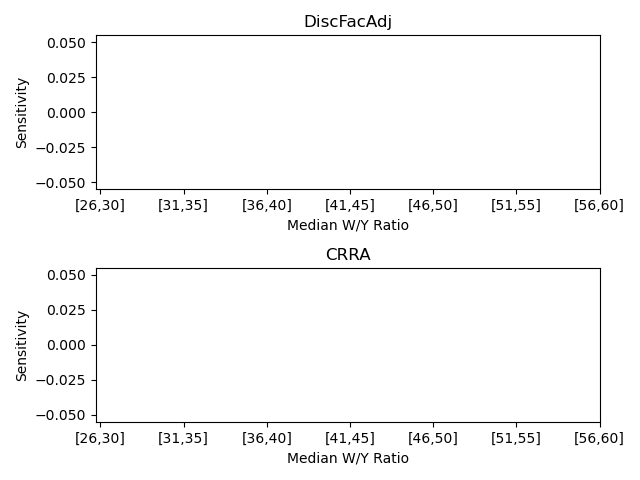
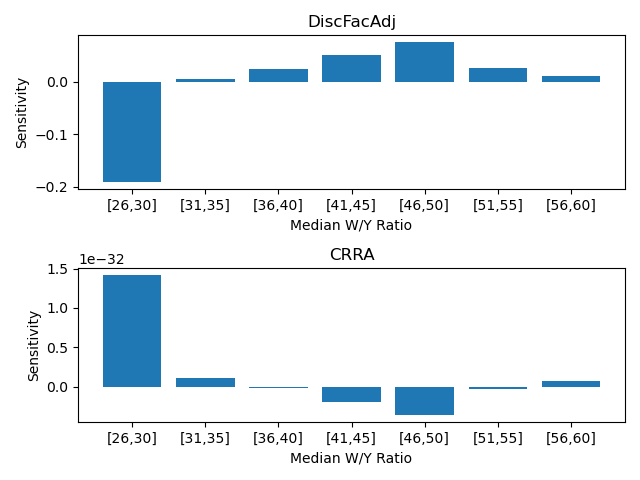
change grid params

diff --git a/Calibration/EstimationParameters.py b/Calibration/EstimationParameters.py
@@ -26,9 +26,9 @@ show_PermGroFacAgg_error = False
 # - Define all of the model parameters for SolvingMicroDSOPs and ConsumerExamples -
 # ---------------------------------------------------------------------------------
 
-exp_nest = 2  # Number of times to "exponentially nest" when constructing a_grid
+exp_nest = 3  # Number of times to "exponentially nest" when constructing a_grid
 aXtraMin = 0.001  # Minimum end-of-period "assets above minimum" value
-aXtraMax = 20  # Maximum end-of-period "assets above minimum" value
+aXtraMax = 50  # Maximum end-of-period "assets above minimum" value
 aXtraHuge = None  # A very large value of assets to add to the grid, not used
 aXtraExtra = None  # Some other value of assets to add to the grid, not used
 aXtraCount = 50  # Number of points in the grid of "assets above minimum"
